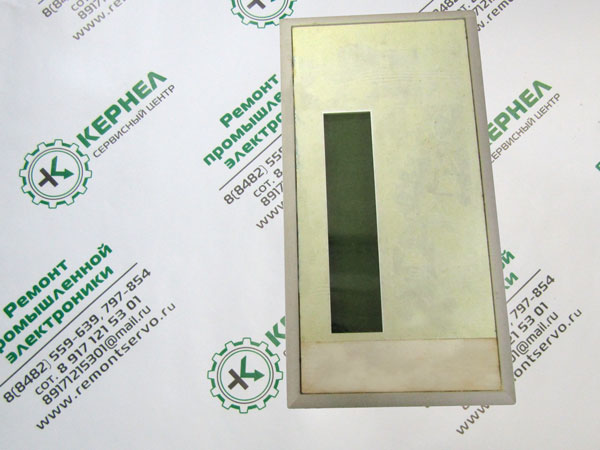
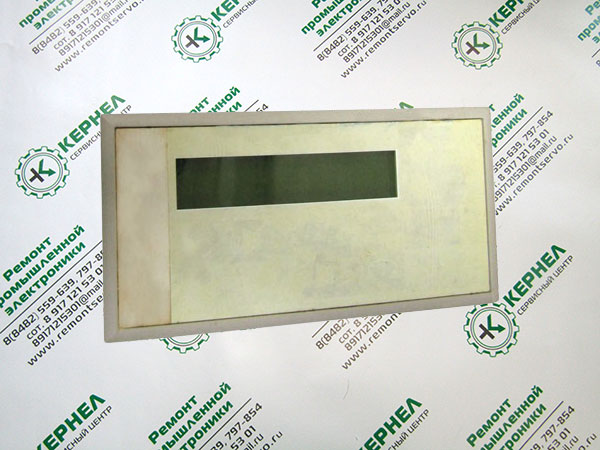
Выполненые работы - убрал дубли и перевернул картинку

diff --git a/www/remontservo.ru/pages/our-works.html b/www/remontservo.ru/pages/our-works.html
@@ -65,6 +65,7 @@
 <li class=ourworks_description>- проверка работы с приводом.</li>
 </ul>
 </div>
+    <!--
 <div class=item>
 <img class=lazy src=# data-original=../img/our-works/servomotor_control_technigues_115u2c305bacaa115190.jpg alt="Ремонт серводвигателя CONTROL-TECHNIGUES 115U2C305BACAA115190" title="Сервомотор CONTROL-TECHNIGUES 115U2C305BACAA115190">
 <p class=ourworks_description style=margin-top:5px>Ремонт серводвигателя CONTROL-TECHNIGUES 115U2C305BACAA115190</p>
@@ -1350,6 +1351,7 @@
 <img class=lazy src=# data-original=../img/our-works/privod-lenze-6384.jpg alt="Сервопривод Lenze EVS9325-ES" title="Lenze EVS9325-ES вх 6384">
 <p class=ourworks_description style=margin-top:5px>Ремонт cервопривода Lenze EVS9325-ES</p>
 </div>
+-->
 <div class=item>
 <img class=lazy src=# data-original=../img/our-works/analizator_kern_5705.jpg alt="Анализатор влаги KERN MLB 50-3" title="KERN MLB 50-3 вх 5705">
 <p class=ourworks_description style=margin-top:5px>Ремонт анализатора влаги KERN MLB 50-3</p>
@@ -1359,7 +1361,7 @@
 <p class=ourworks_description style=margin-top:5px>Ремонт cервопривода HEIDENHAIN UM 121D ID 392 319-01</p>
 </div>
 <div class=item>
-<img class=lazy src=# data-original=../img/our-works/heidenhain_5703.jpg alt="Сервопривод HEIDENHAIN UM 121D ID 392 319-01" title="HEIDENHAIN UM 121D ID 392 319-01 вх 5704">
+<img class=lazy src=# data-original=../img/our-works/heidenhain_5703.jpg alt="Сервопривод HEIDENHAIN UM 121D ID 392 319-01" title="HEIDENHAIN UM 121D ID 392 319-01 вх 5703">
 <p class=ourworks_description style=margin-top:5px>Ремонт сервопривода HEIDENHAIN UM 121D ID 392 319-01</p>
 </div>
 <div class=item>
@@ -1656,11 +1658,6 @@
 <img class=lazy src=# data-original=../img/our-works/kone_5763.jpg alt="Частотный преобразователь Kone V3F16L" title="Kone V3F16L вх 5763">
 <p class=ourworks_description style=margin-top:5px>Ремонт частотного преобразователя Kone V3F16L</p>
 </div>
-
-<div class=item>
-<img class=lazy src=# data-original=../img/our-works/kone_5763.jpg alt="Частотный преобразователь Kone V3F16L" title="Kone V3F16L вх 5763">
-<p class=ourworks_description style=margin-top:5px>Ремонт частотного преобразователя Kone V3F16L</p>
-</div>
     
 <div class=item>
 <img class=lazy src=# data-original=../img/our-works/power_panel_5762-1.jpg alt="Панель оператора B&R Power Panel 400" title="B&R Power Panel 400 вх 5762Г1">
@@ -1907,11 +1904,6 @@
 <p class=ourworks_description style=margin-top:5px>Ремонт частотного преобразователя KONE V3F16L 76 9900 G01, 1600716904</p>
 </div>
 
-<div class=item>
-<img class=lazy src=# data-original=../img/our-works/sigma_4876g2.jpg alt="Лифтовой частотный преобразователь Sigma 4015-E" title="Sigma 4015-E вх 4876Г2">
-<p class=ourworks_description style=margin-top:5px>Ремонт лифтового частотного преобразователя Sigma 4015-E</p>
-</div>
-    
 <div class=item>
 <img class=lazy src=# data-original=../img/our-works/sigma_4876g2.jpg alt="Лифтовой частотный преобразователь Sigma 4015-E" title="Sigma 4015-E вх 4876Г2">
 <p class=ourworks_description style=margin-top:5px>Ремонт лифтового частотного преобразователя Sigma 4015-E</p>
